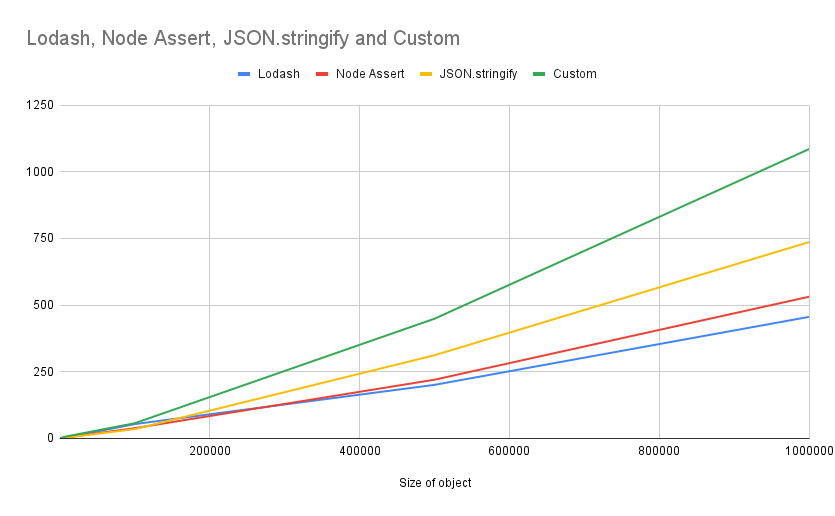
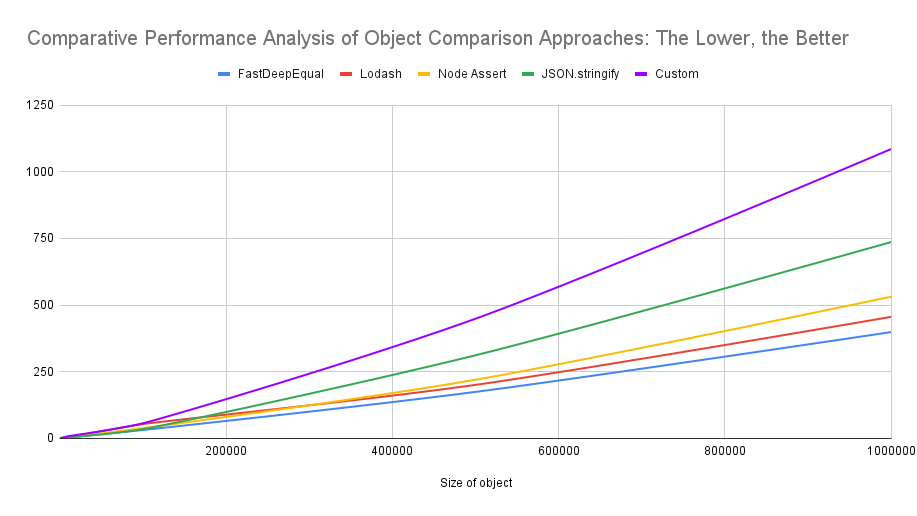
Update article about objects comparison

diff --git a/src/styles/markdown-styles.module.css b/src/styles/markdown-styles.module.css
@@ -46,7 +46,7 @@
 }
 
 .markdown table {
-  @apply my-8 w-full table-auto border-collapse border border-gray-400 text-left;
+  @apply my-8 w-full table-auto border-collapse overflow-auto border border-gray-400 text-left;
 }
 
 .markdown table th {

diff --git a/_posts/compare-objects.md b/_posts/compare-objects.md
@@ -1,6 +1,6 @@
 ---
 title: "4 ways to compare objects in Javascript"
-excerpt: "In this article, we will implement a custom object and array comparison function. We will use recursion to implement the comparison function."
+excerpt: "In this article, I will implement a custom object and array comparison function. I will use recursion to implement the comparison function. I will also compare the performance of different methods of object comparison."
 coverImage: "/blog/compare-objects/cover.png"
 date: "2023-12-29"
 ogImage:
@@ -15,38 +15,63 @@ The problem with the regular equality operator is that it only checks references
 
 ### There are several common ways to compare objects and arrays in Javascript:
 
-#### 1. [Lodash's isEqual](https://lodash.com/docs/4.17.15#isEqual)
+#### 1. [Fast-deep-equal](https://github.com/epoberezkin/fast-deep-equal) and other similar libraries
 
-This is the most popular way to compare objects and arrays in Javascript. It is a part of the Lodash library. It is a very well tested and optimized function. It is also very easy to use.
+This library provides a function called equal() which can be used to compare objects and arrays. It is a very popular library, it has 20+ million weekly downloads on npm.
 
-> This method supports comparing arrays, array buffers, booleans, date objects, error objects, maps, numbers, Object objects, regexes, sets, strings, symbols, and typed arrays. Object objects are compared by their own, not inherited, enumerable properties. Functions and DOM nodes are compared by strict equality, i.e. ===
+The main advantage of this library is that it is very fast. It is 10-100 times faster than other libraries like Lodash's isEqual() method according to the author benchmark tests:
 
-To use it, you need to install the Lodash library using npm or yarn.
+| Library                | Ops/sec |
+| ---------------------- | ------- |
+| fast-deep-equal        | 261,950 |
+| fast-equals            | 230,957 |
+| fast-deep-equal/es6    | 212,991 |
+| nano-equal             | 187,995 |
+| shallow-equal-fuzzy    | 138,302 |
+| underscore.isEqual     | 74,423  |
+| util.isDeepStrictEqual | 46,440  |
+| lodash.isEqual         | 36,637  |
+| deep-eql               | 35,312  |
+| ramda.equals           | 12,054  |
+| deep-equal             | 2,310   |
+| assert.deepStrictEqual | 456     |
+
+To use it, you need to install the library using npm or yarn.
 
 ```bash
-npm install lodash
+npm install fast-deep-equal
 ```
 
 Then you can import it in your code and use it.
 
 ```javascript
-import isEqual from "lodash/isEqual";
+import equal from "fast-deep-equal";
 
 const obj1 = { a: 1, b: 2 };
 const obj2 = { a: 1, b: 2 };
 
-isEqual(obj1, obj2); // true
+equal(obj1, obj2); // true
 ```
+
+Other libraries:
+
+- [Lodash's isEqual](https://lodash.com/docs/4.17.15#isEqual)
+- [Ramda](https://ramdajs.com/docs/#equals)
+- [Underscore](https://underscorejs.org/#isEqual)
+- [Immutable.js](<https://immutable-js.com/docs/v3.8.2/is()>)
+- [Fast-equals](https://github.com/planttheidea/fast-equals)
 
 ---
 
-#### 2. [Node.js assert.deepEqual() method](https://nodejs.org/api/assert.html#assert_assert_deepstrictequal_actual_expected_message)
+#### 2. [Node.js assert.deepEqual() method](https://nodejs.org/api/assert.html#assert_assert_deepstrictequal_actual_expected_message) and [Node.js util.isDeepStrictEqual() method](https://nodejs.org/api/util.html#util_util_isdeepstrictequal_val1_val2)
 
 This is a part of the Node.js assert module.
 
 The main downside of this method is that it can only be used in Node.js but not in the browser.
 
 Another issue is this function throws an error if the objects are not equal. This is not ideal if you want to use it in a conditional statement. You can use try/catch to handle the error, but it is not ideal.
+
+util.isDeepStrictEqual() is similar to assert.deepEqual() but it does not throw an error if the objects are not equal. It returns true or false depending on whether the objects are equal or not. This is more suitable for conditional statements.
 
 ```javascript
 const assert = require("assert").strict;
@@ -206,14 +231,14 @@ console.log(`Custom: ${timeTakenCustom}`);
 
 I ran this code with different sizes of objects and got the following results:
 
-| Size of object | Lodash   | Node Assert | JSON.stringify | Custom    |
-| -------------- | -------- | ----------- | -------------- | --------- |
-| 100            | 0.4316   | 0.0167      | 0.0202         | 0.2763    |
-| 1000           | 0.5901   | 0.3884      | 0.1584         | 0.5741    |
-| 10000          | 3.0968   | 3.0775      | 2.7993         | 7.3304    |
-| 100000         | 52.8975  | 37.6808     | 33.9532        | 56.0962   |
-| 500000         | 200.1934 | 219.5169    | 311.2552       | 448.4530  |
-| 1000000        | 455.5247 | 531.1270    | 736.3083       | 1085.5547 |
+| Size of object | FastDeepEqual | Lodash   | Node Assert | JSON.stringify | Custom    |
+| -------------- | ------------- | -------- | ----------- | -------------- | --------- |
+| 100            | 0.0731        | 0.4316   | 0.0167      | 0.0202         | 0.2763    |
+| 1000           | 0.2522        | 0.5901   | 0.3884      | 0.1584         | 0.5741    |
+| 10000          | 2.3789        | 3.0968   | 3.0775      | 2.7993         | 7.3304    |
+| 100000         | 30.8043       | 52.8975  | 37.6808     | 33.9532        | 56.0962   |
+| 500000         | 173.8129      | 200.1934 | 219.5169    | 311.2552       | 448.4530  |
+| 1000000        | 398.3462      | 455.5247 | 531.1270    | 736.3083       | 1085.5547 |
 
 Graphical representation of the results:
 ![Graphical representation of performance comparison of different methods of object comparison](/blog/compare-objects/performance-object-comparison.png)
